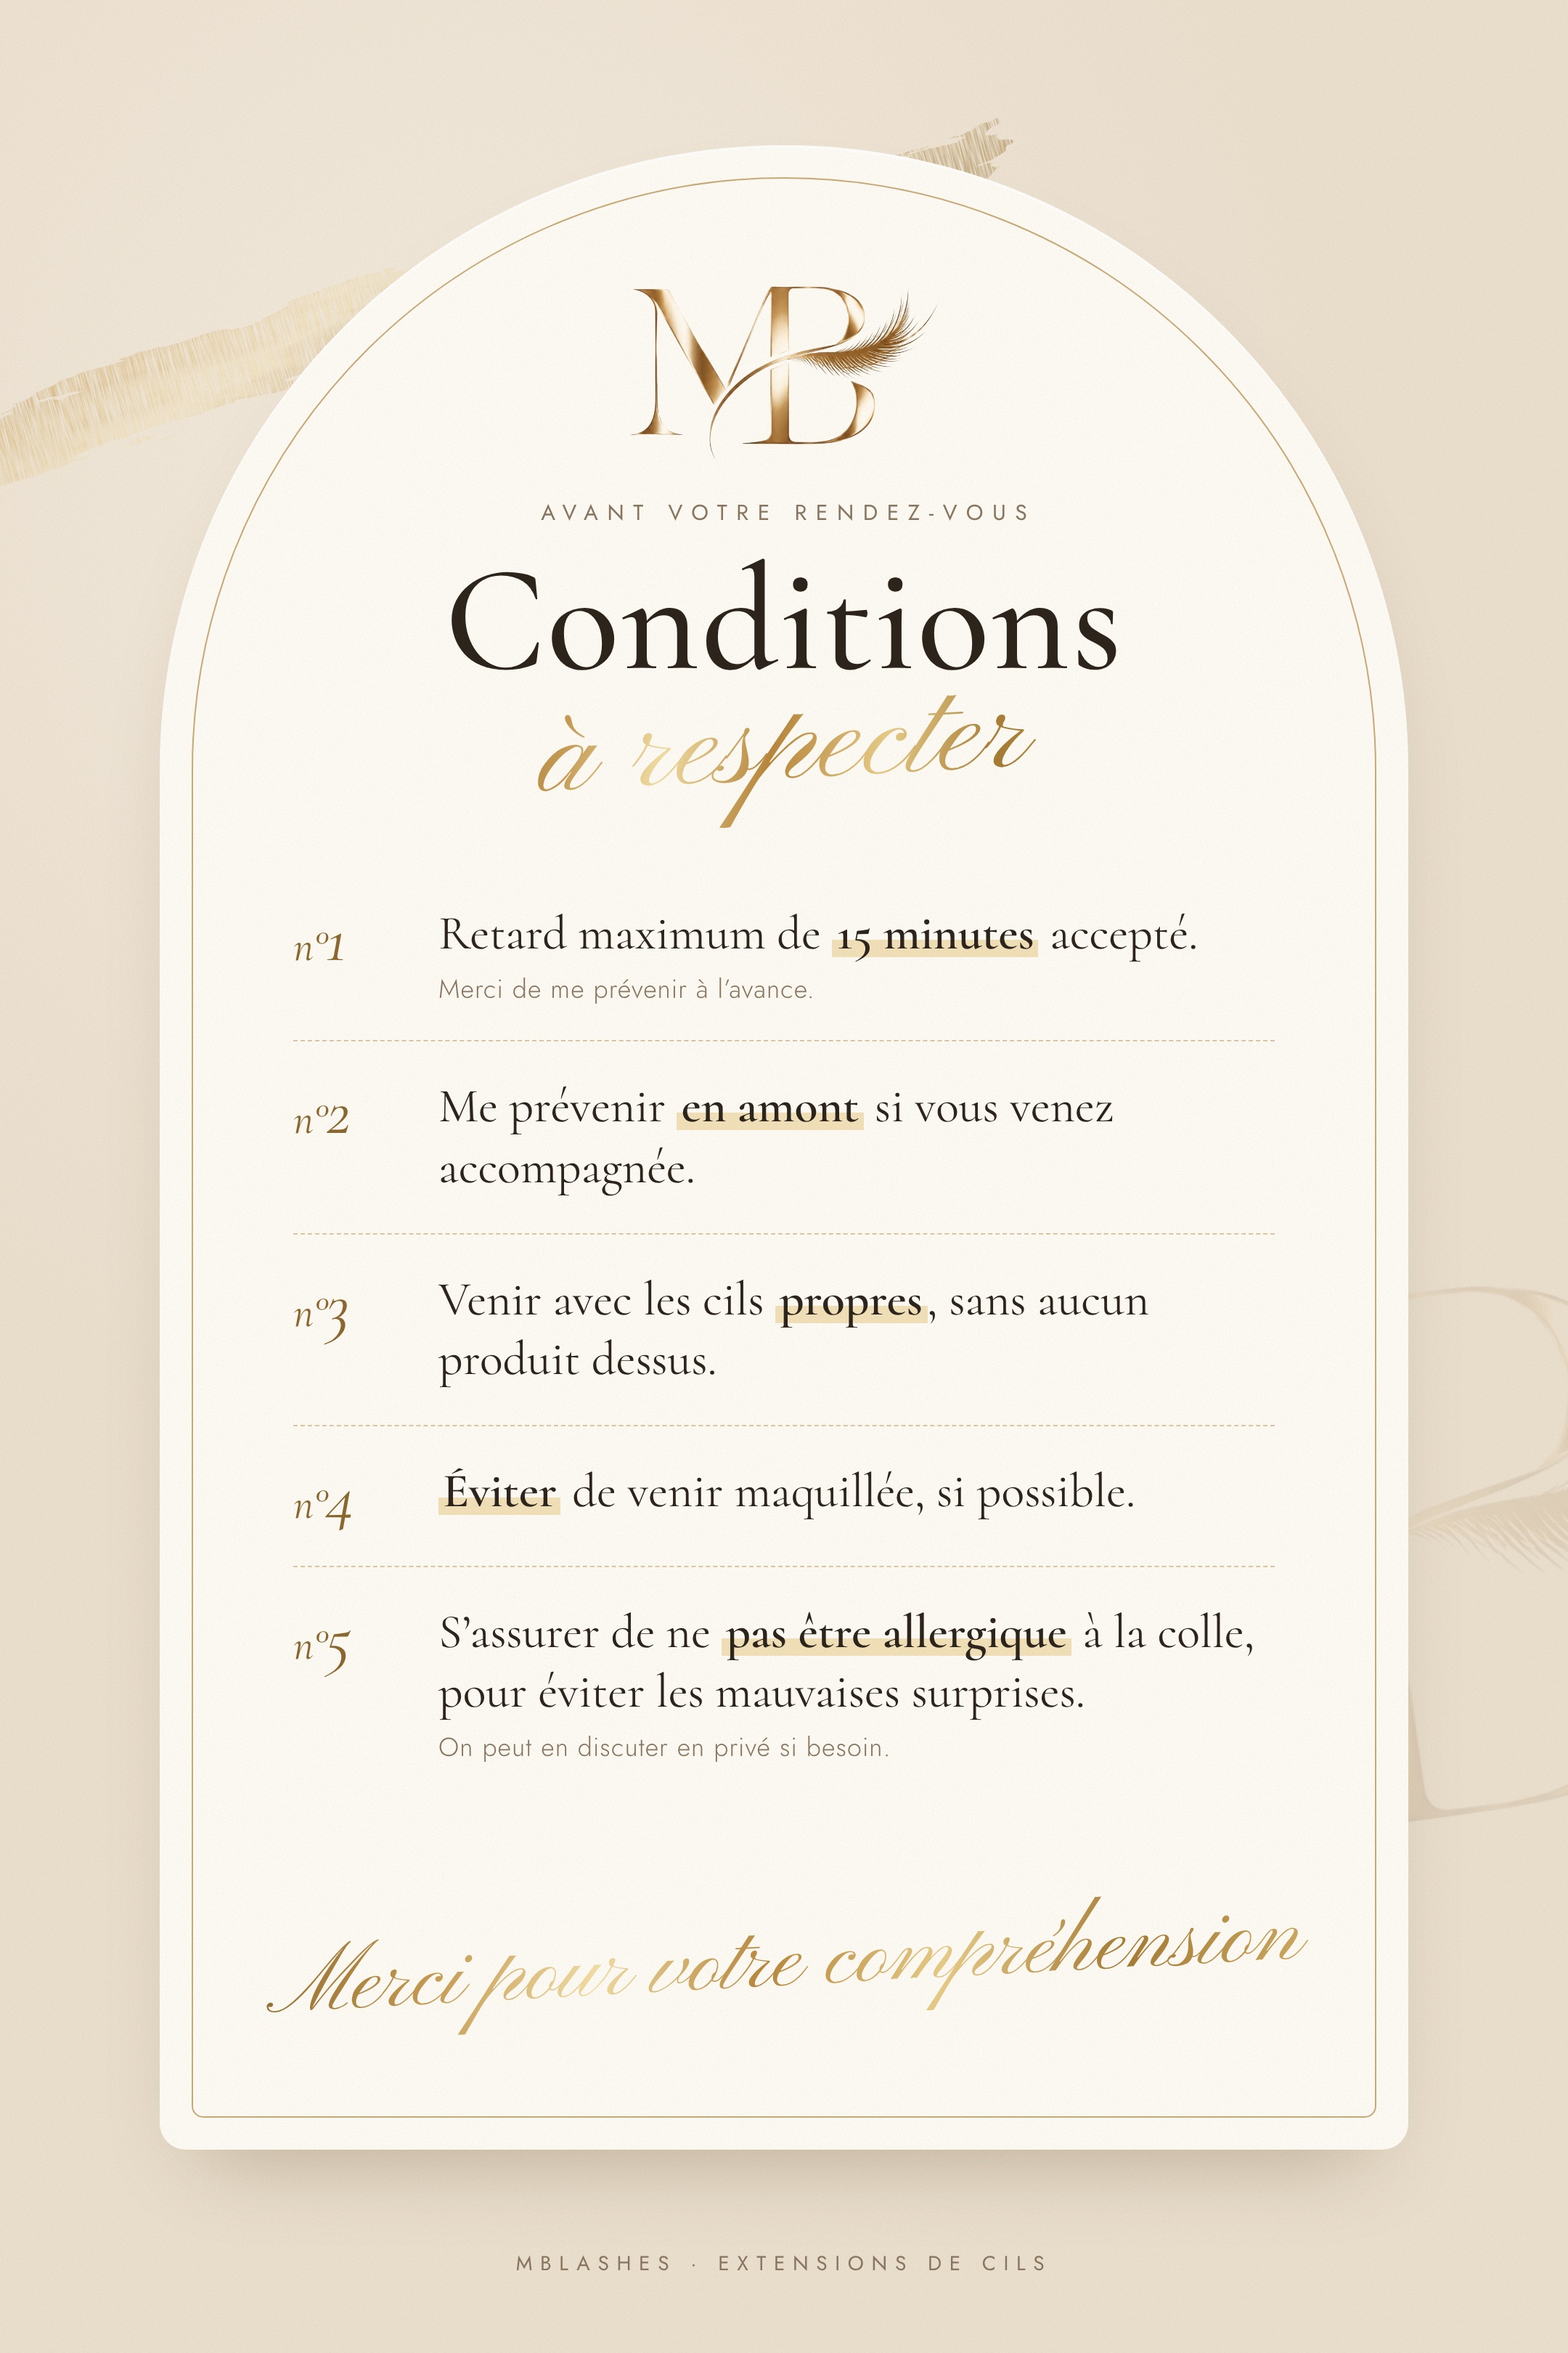
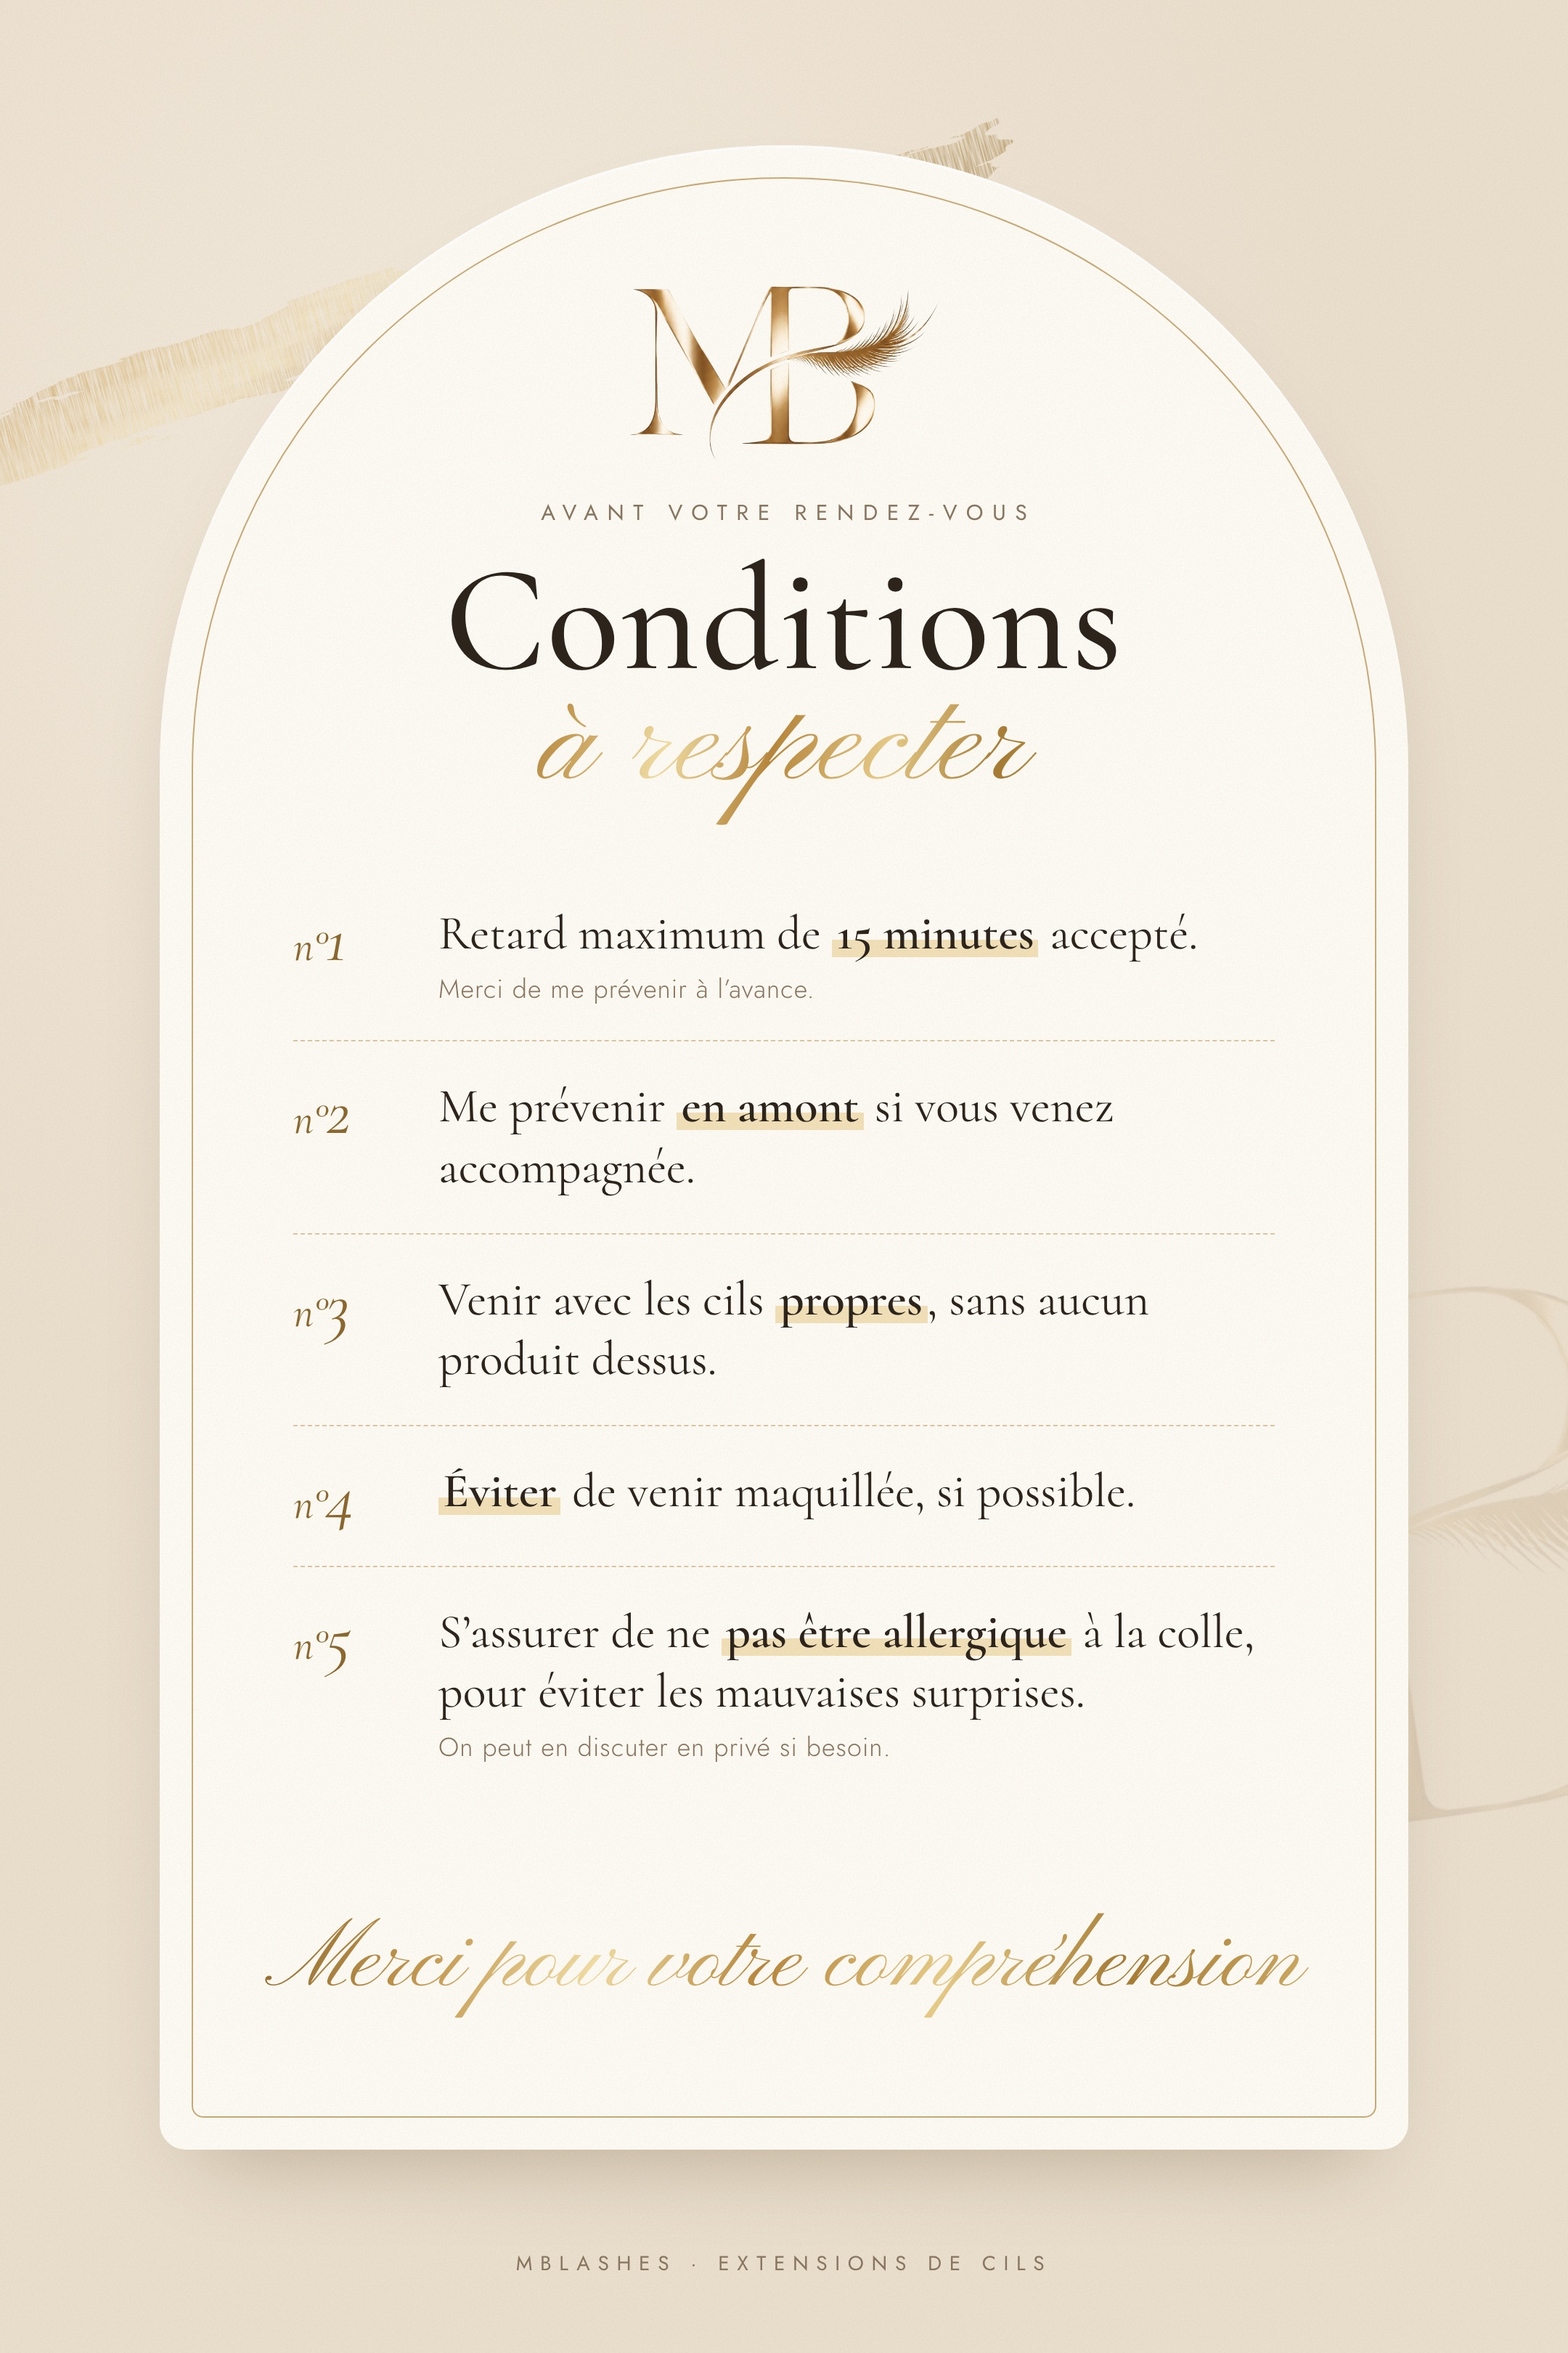
Affiches arche : textes manuscrits remis droits
Claude-Session: https://claude.ai/code/session_01KJR1EYEtcL5ZzPzfnF4Kc2

Changed region(s): [[0.1861, 0.8105, 0.4963, 0.8728], [0.5273, 0.8105, 0.8375, 0.8728], [0.3412, 0.2806, 0.6514, 0.3429]]

diff --git a/affiche/reservation.html b/affiche/reservation.html
@@ -26,7 +26,7 @@
   .logo{height:120px}
   .kicker{margin-top:26px;font-family:'Jost';font-weight:400;font-size:15px;letter-spacing:.42em;color:var(--muted);padding-left:.42em}
   h1{margin-top:14px;font-weight:500;font-size:104px;line-height:.95;letter-spacing:.01em;text-align:center}
-  h1 em{display:block;font-family:'Pinyon Script';font-style:normal;font-weight:400;font-size:92px;margin-top:-6px;padding:0 20px 18px;transform:rotate(-3deg)}
+  h1 em{display:block;font-family:'Pinyon Script';font-style:normal;font-weight:400;font-size:92px;margin-top:-6px;padding:0 20px 18px}
 
   ul{list-style:none;width:100%;margin-top:22px}
   li{display:flex;gap:26px;align-items:flex-start;padding:30px 0}
@@ -39,7 +39,7 @@
 
   .note{position:absolute;bottom:52px;z-index:5;left:0;right:0;text-align:center;font-family:'Jost';font-size:14px;letter-spacing:.38em;color:var(--muted)}
   .merci{position:absolute;left:0;right:0;bottom:72px;text-align:center;z-index:5}
-  .merci div{display:inline-block;font-family:'Pinyon Script';font-size:64px;transform:rotate(-3deg);padding:0 20px 16px}
+  .merci div{display:inline-block;font-family:'Pinyon Script';font-size:64px;padding:0 20px 16px}
   .merci p{display:none}
   .deposit{margin-top:34px;width:100%;display:flex;align-items:center;gap:34px;padding:30px 40px;border-radius:14px;
     background:linear-gradient(120deg,#f6ead2,#fbf3e3 45%,#f1e0bf);border:1.3px solid rgba(180,138,69,.65);position:relative}

diff --git a/affiche/conditions-v3.html b/affiche/conditions-v3.html
@@ -26,7 +26,7 @@
   .logo{height:120px}
   .kicker{margin-top:26px;font-family:'Jost';font-weight:400;font-size:15px;letter-spacing:.42em;color:var(--muted);padding-left:.42em}
   h1{margin-top:14px;font-weight:500;font-size:104px;line-height:.95;letter-spacing:.01em;text-align:center}
-  h1 em{display:block;font-family:'Pinyon Script';font-style:normal;font-weight:400;font-size:92px;margin-top:-6px;padding:0 20px 18px;transform:rotate(-3deg)}
+  h1 em{display:block;font-family:'Pinyon Script';font-style:normal;font-weight:400;font-size:92px;margin-top:-6px;padding:0 20px 18px}
 
   ul{list-style:none;width:100%;margin-top:22px}
   li{display:flex;gap:26px;align-items:flex-start;padding:24px 0}
@@ -39,7 +39,7 @@
 
   .note{position:absolute;bottom:52px;z-index:5;left:0;right:0;text-align:center;font-family:'Jost';font-size:14px;letter-spacing:.38em;color:var(--muted)}
   .merci{position:absolute;left:0;right:0;bottom:72px;text-align:center;z-index:5}
-  .merci div{display:inline-block;font-family:'Pinyon Script';font-size:64px;transform:rotate(-3deg);padding:0 20px 16px}
+  .merci div{display:inline-block;font-family:'Pinyon Script';font-size:64px;padding:0 20px 16px}
   .merci p{display:none}
 </style>
 </head>
